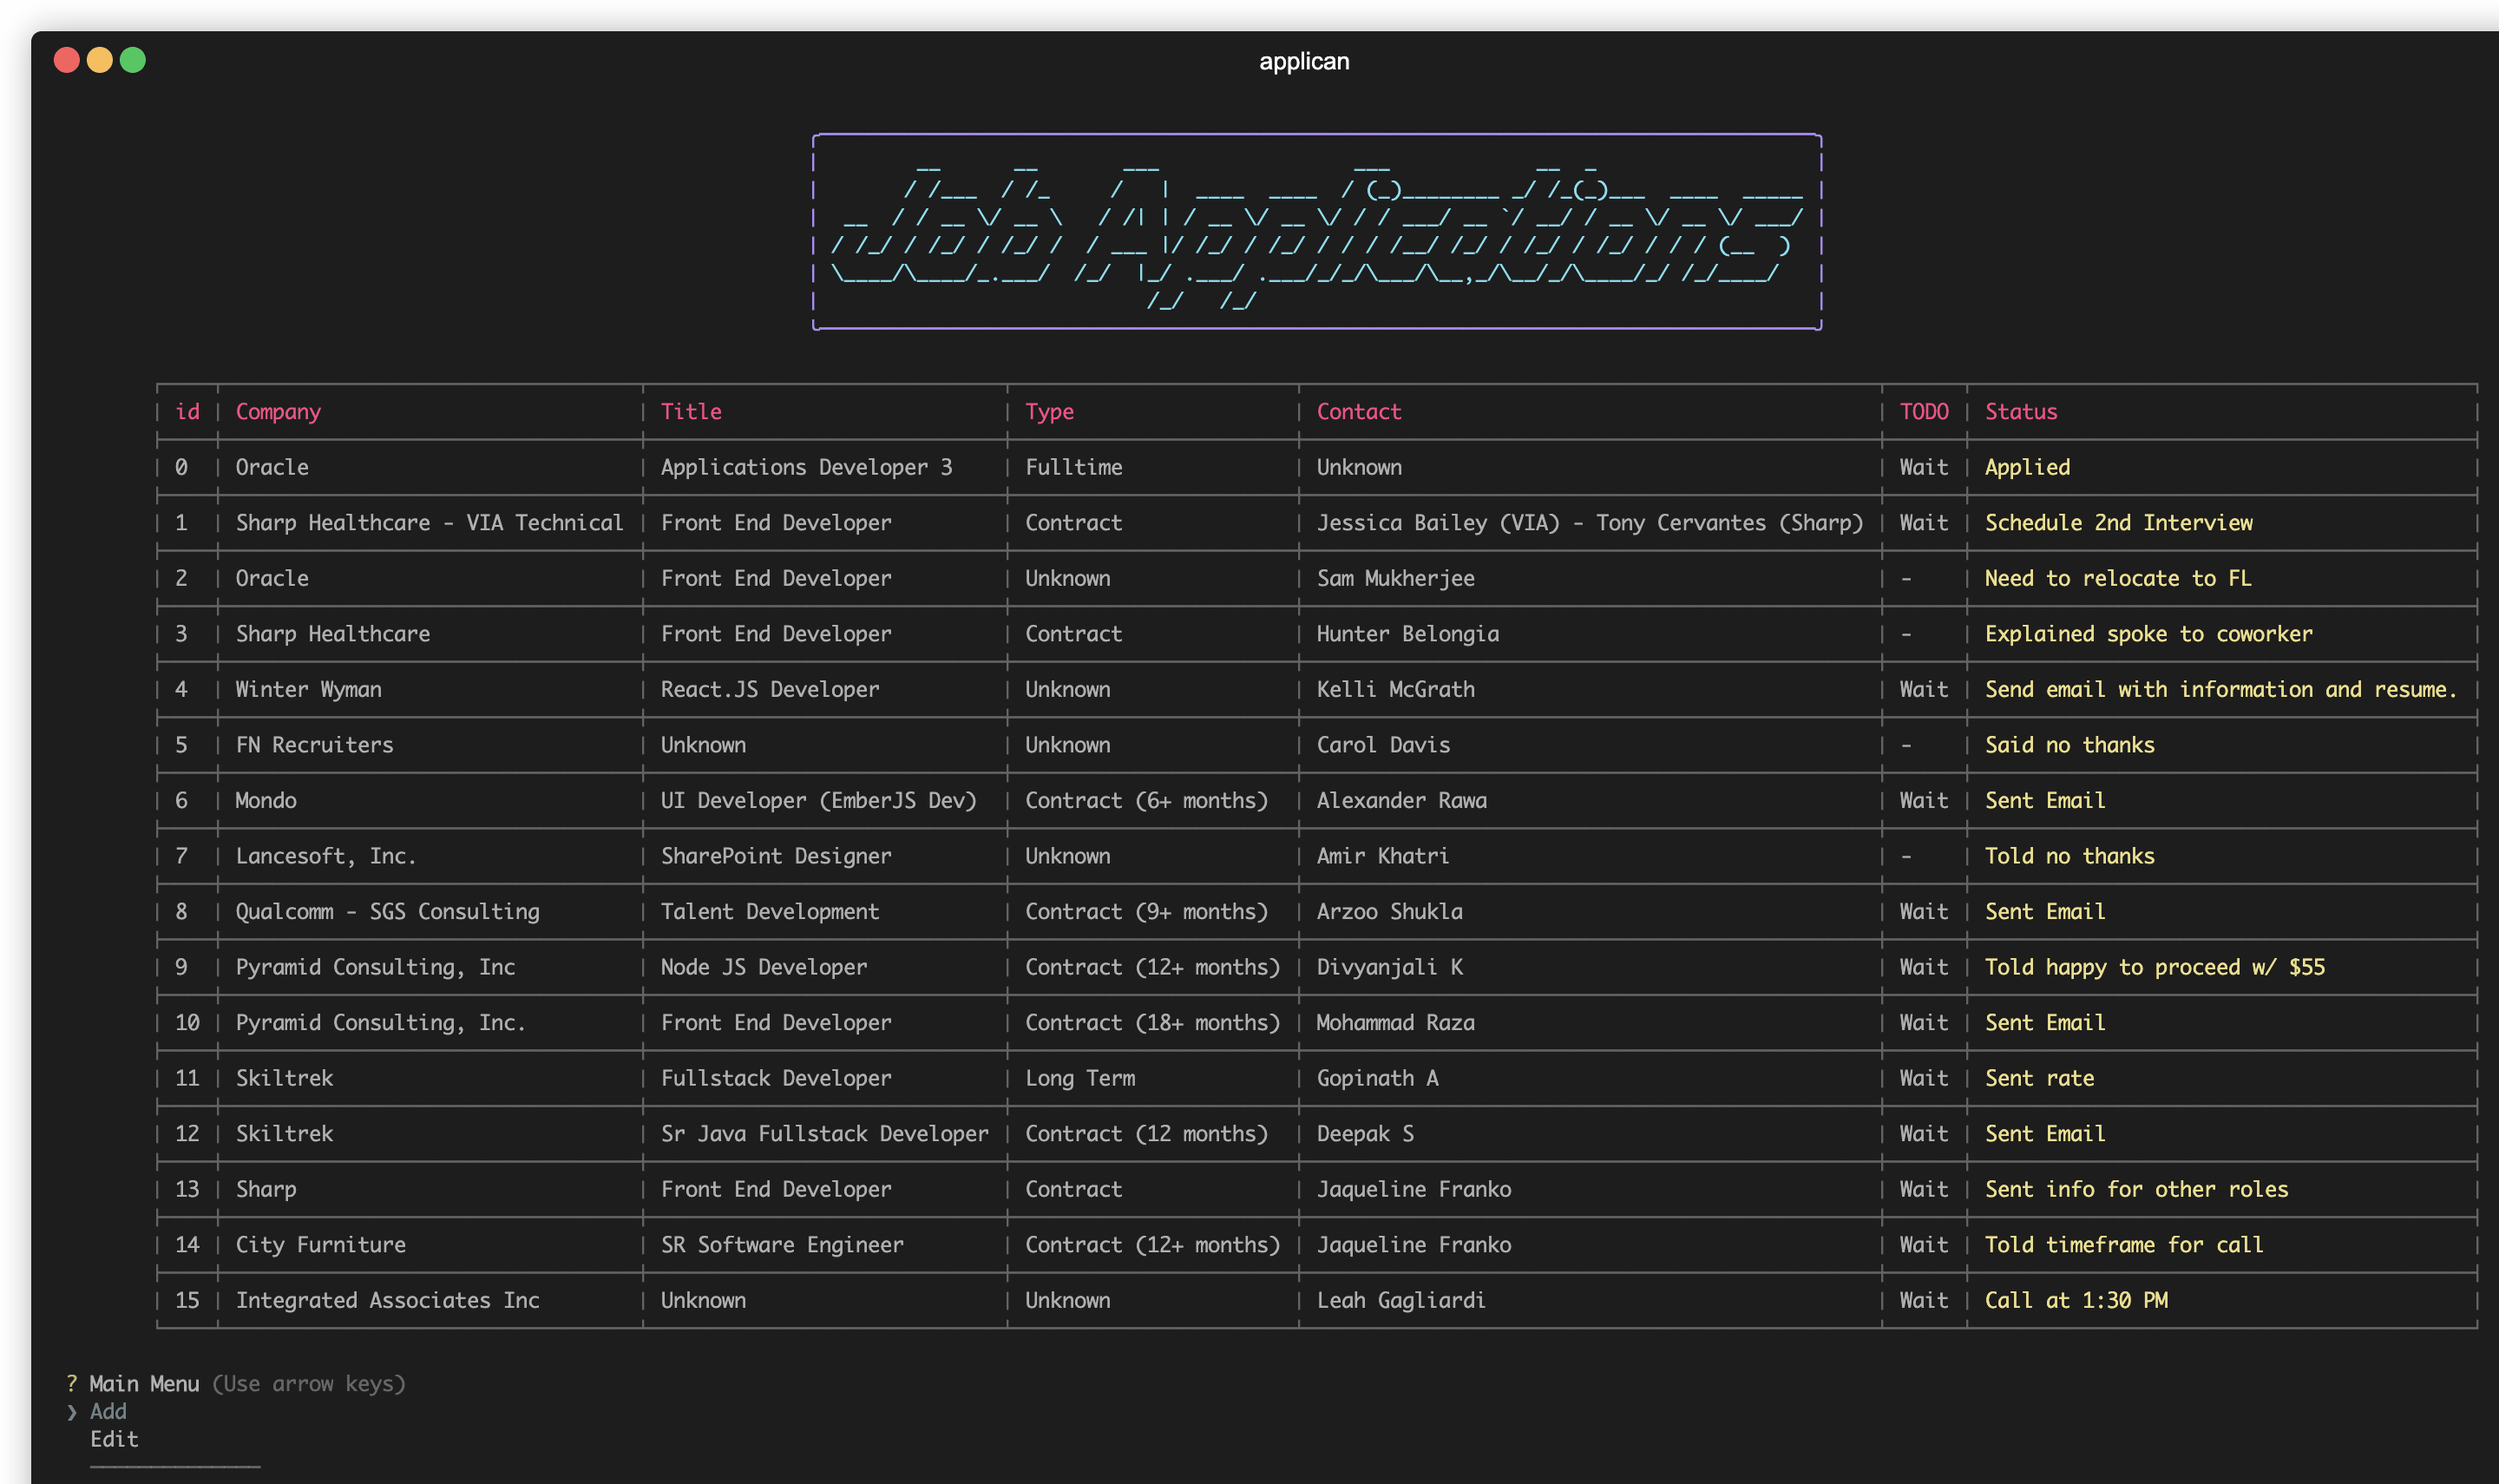
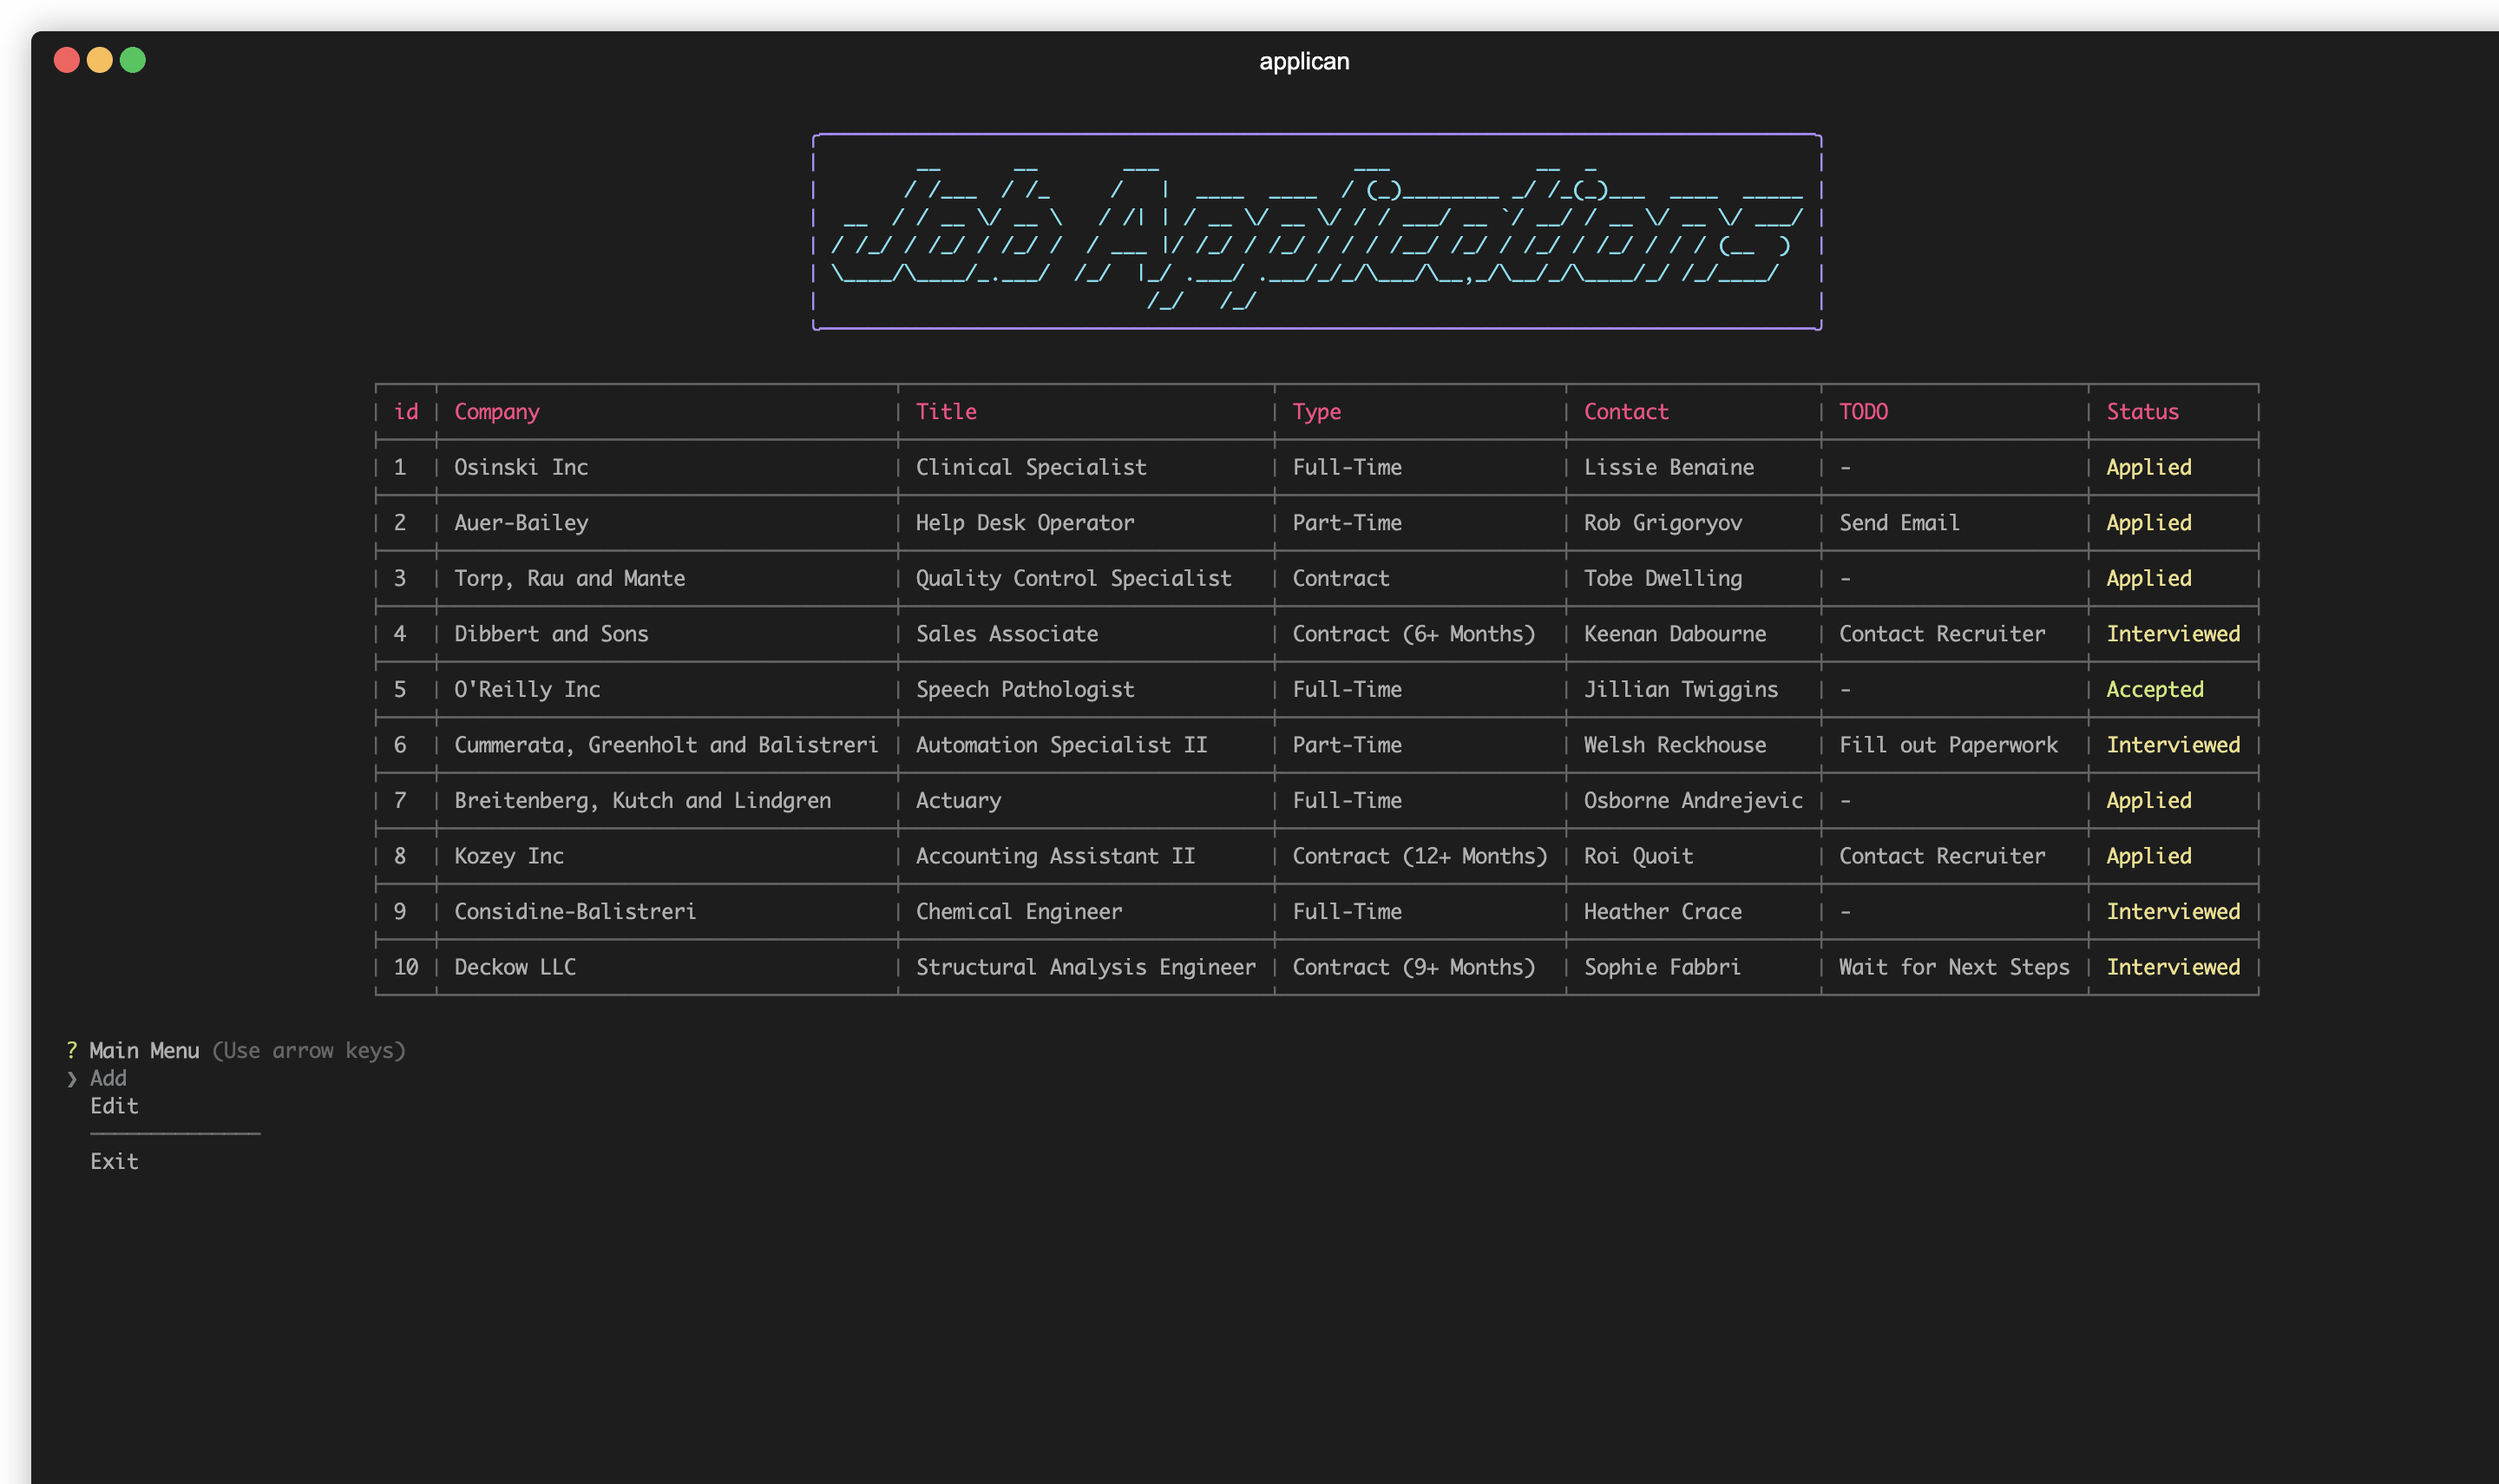
really update example image

diff --git a/README.md b/README.md
@@ -19,7 +19,7 @@
     <br> 
 </p>
 
-![Job App Viewer Example](https://res.cloudinary.com/alexlee-dev/image/upload/v1584649487/example.jpg)
+![Job App Viewer Example](https://res.cloudinary.com/alexlee-dev/image/upload/v1584650174/example.jpg)
 
 ## 📝 Table of Contents
 
